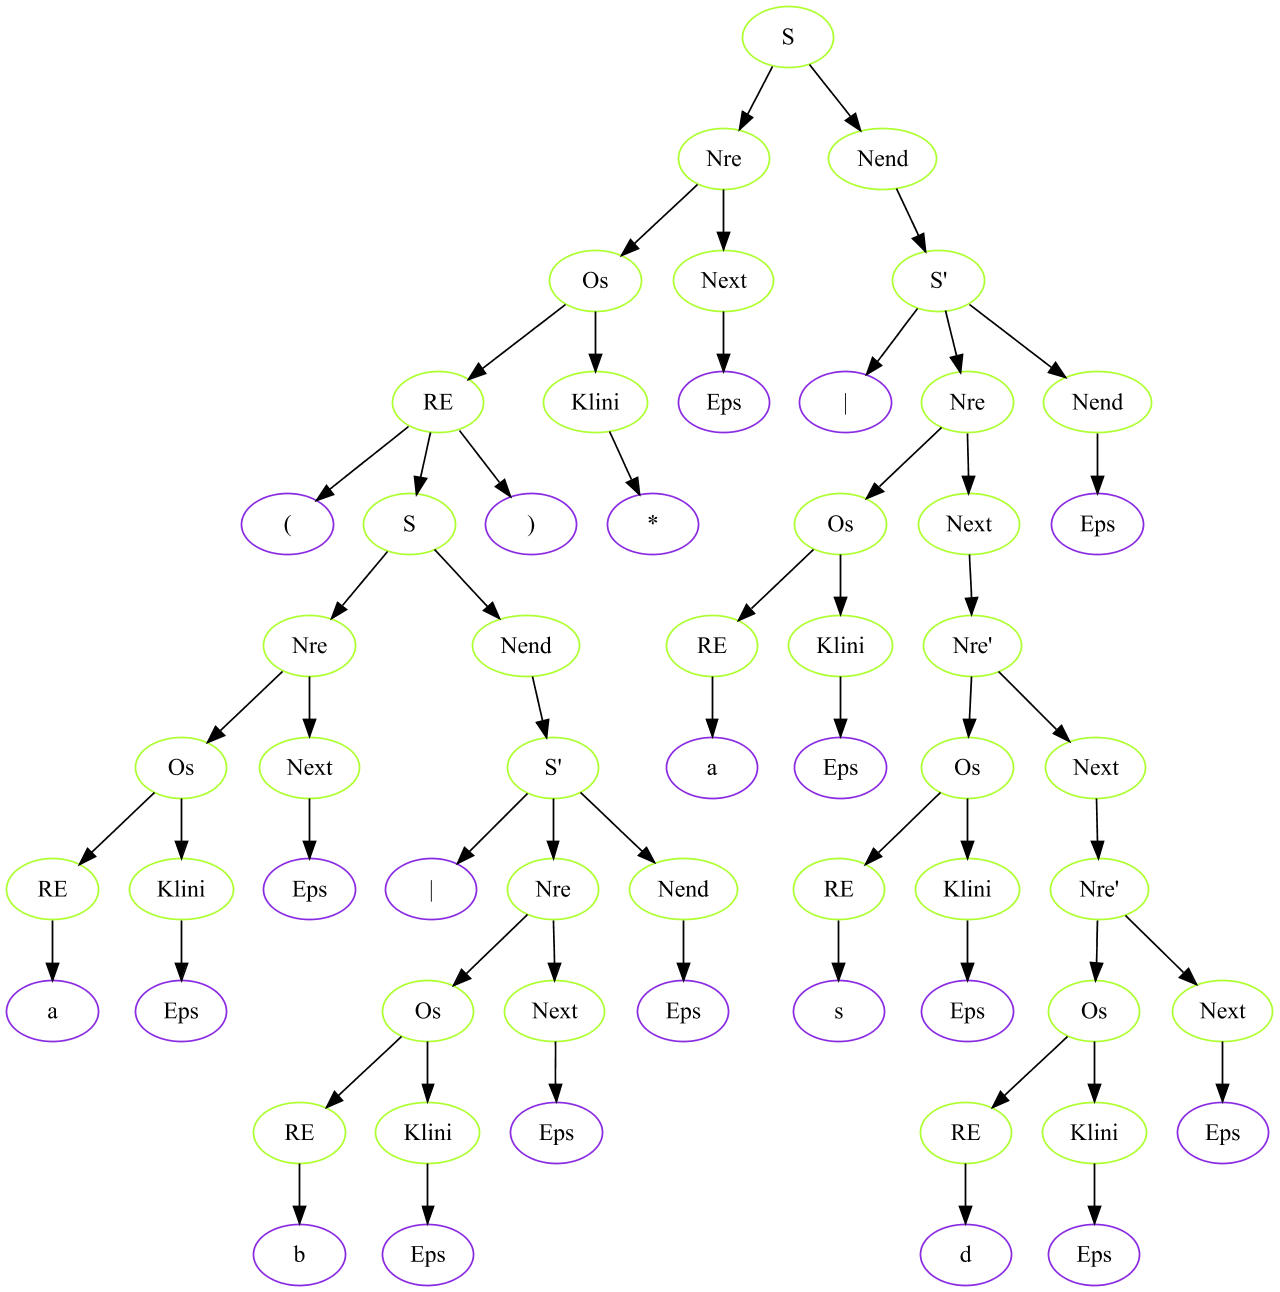
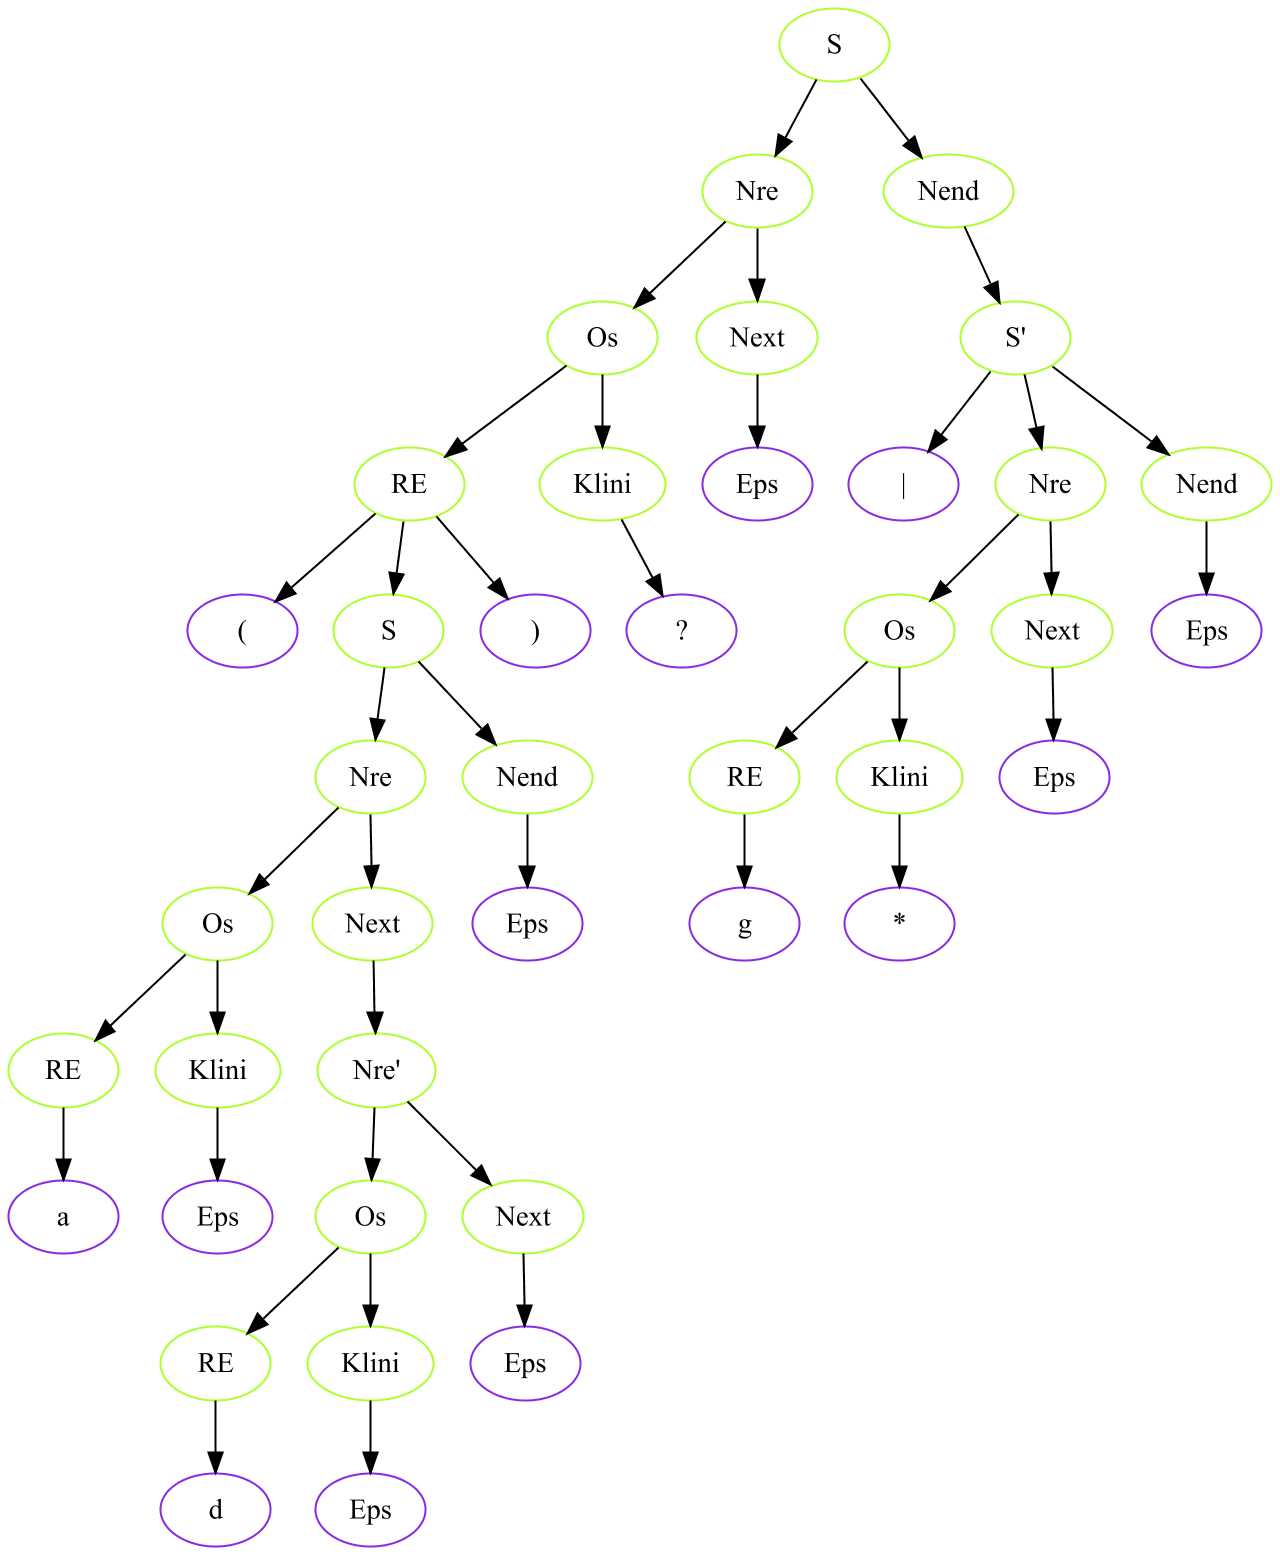
Added '?'

diff --git a/src/Lab2/testParserLab2/Tests.java b/src/Lab2/testParserLab2/Tests.java
@@ -29,6 +29,9 @@ public class Tests {
         trueTests.add("(dg*dg)|(d)*(dg)|x*");
         trueTests.add("df|sdf(sdf)");
         trueTests.add("((fg)*sdf)*|((df)|(sd*d))");
+        trueTests.add("(a)?");
+        trueTests.add("a?");
+        trueTests.add("ab?");
     }
 
     static {
@@ -51,6 +54,12 @@ public class Tests {
         falseTests.add("134DSF");
         falseTests.add("(D)|d*");
         falseTests.add("(!)|@");
+        falseTests.add("?");
+        falseTests.add("*");
+        falseTests.add("a?*");
+        falseTests.add("a*?");
+        falseTests.add("(a)?*");
+        falseTests.add("(a)*?");
     }
 
     public static void main(String[] args) {

diff --git a/src/Lab2/testParserLab2/RandomTest.java b/src/Lab2/testParserLab2/RandomTest.java
@@ -11,7 +11,7 @@ public class RandomTest {
         this.size = size;
         return randomS();
     }
-    
+
     private String randomS() {
         String Nre = randomNre();
         String Nend = randomNend();
@@ -68,6 +68,9 @@ public class RandomTest {
             size--;
             return "*";
         } else {
+            if (choose < BORDER / 3 * 2) {
+                return "?";
+            }
             return "";
         }
     }
@@ -80,7 +83,7 @@ public class RandomTest {
             } else {
                 return "";
             }
-            
+
         } else {
             return "";
         }

diff --git a/src/Lab2/parserLab2/Token.java b/src/Lab2/parserLab2/Token.java
@@ -10,6 +10,7 @@ class Token {
         RPAREN,     /* ) */
         KLINI,      /* * */
         OR,         /* | */
+        QUEST,      /* ? */
         END         /* End of regular expression */
     }
 
@@ -27,6 +28,9 @@ class Token {
                 break;
             case '*':
                 token = tokens.KLINI;
+                break;
+            case '?':
+                token = tokens.QUEST;
                 break;
             case '|':
                 token = tokens.OR;

diff --git a/src/Lab2/testParserLab2/RandomTestTree.java b/src/Lab2/testParserLab2/RandomTestTree.java
@@ -89,7 +89,11 @@ public class RandomTestTree {
             size--;
             tree.addChildren(new Tree("*", true));
         } else {
-            tree.addChildren(new Tree("Eps", true));
+            if (choose < BORDER / 3 * 2) {
+                tree.addChildren(new Tree("?", true));
+            } else {
+                tree.addChildren(new Tree("Eps", true));
+            }
         }
         return tree;
     }

diff --git a/src/Lab2/parserLab2/Parser.java b/src/Lab2/parserLab2/Parser.java
@@ -136,6 +136,10 @@ public class Parser {
                 stream.next();
                 tree.addChildren(new Tree(token.getName(), true));
                 break;
+            case QUEST:
+                stream.next();
+                tree.addChildren(new Tree(token.getName(), true));
+                break;
             default:
                 tree.addChildren(new Tree("Eps", true));
         }

diff --git a/Report.md b/Report.md
@@ -9,6 +9,7 @@
 3. `Nre -> Os`
 4. `Nre -> NreOs`
 5. `Os -> RE*`
+5. `Os -> RE?`
 6. `Os -> RE`
 7. `RE -> [a..z]`
 8. `RE -> (S)`
@@ -21,7 +22,7 @@
 
 >`Nre` - Продолжение регулярного выражения.
 
->`Os` - Замыкание Клини регулярного выражения или нет.
+>`Os` - Замыкание Клини регулярного выражения или нет, или добавление ?.
 
 >`RE` - Символы регулярного выражения, либо взятие выражения в ().
 
@@ -38,6 +39,7 @@
 5. `Os -> REKlini`
 5. `Klini -> eps`
 5. `Klini -> *`
+0. `Klini -> ?`
 7. `RE -> [a..z]`
 8. `RE -> (S)`
 --------
@@ -58,7 +60,7 @@
 
 >`Os` - Часть выражения.
 
->`Klini` - Замыкание Клини для выражения.
+>`Klini` - Замыкание Клини для выражения, или утановка '?'.
 
 >`RE` - Символ регулярного выражения, либо взятие выражения в ().
 
@@ -80,8 +82,8 @@ __Nre'__      | `[a..z], (`         | `$, ), /`
 __Next__      | `[a..z], (, eps`    | `$, ), /`
 __Nend__      | `eps, /`            | `$, )`
 __Os__        | `[a..z], (`         | `$, [a..z], (, ), /`
-__Klini__     | `eps, *`            | `$, [a..z], (, ), /`
-__RE__        | `[a..z], (`         | `$, *, [a..z], (, ), /`
+__Klini__     | `eps, *, ?`         | `$, [a..z], (, ), /`
+__RE__        | `[a..z], (`         | `$, *, ?, [a..z], (, ), /`
 
 ----
 > `/` - Это |.
